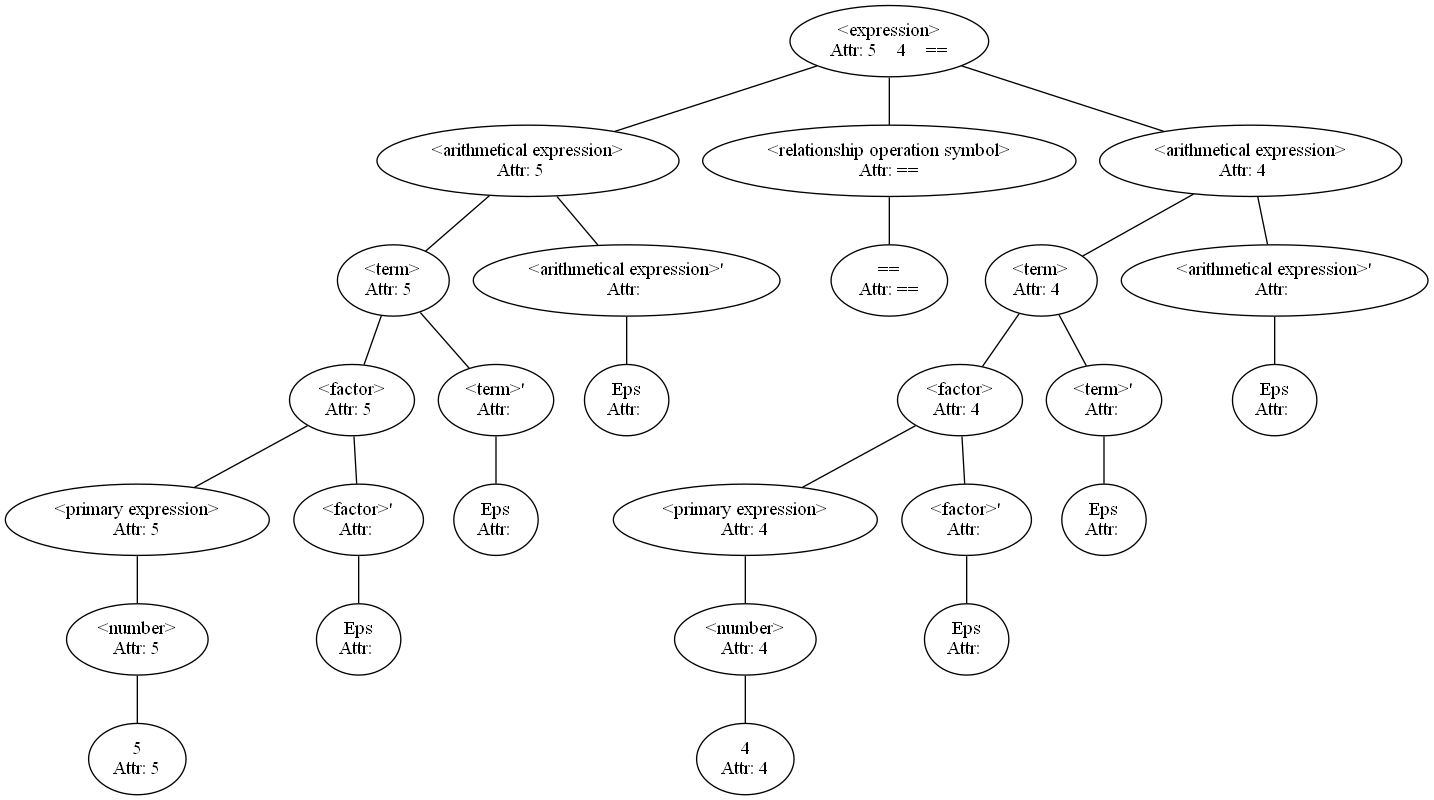
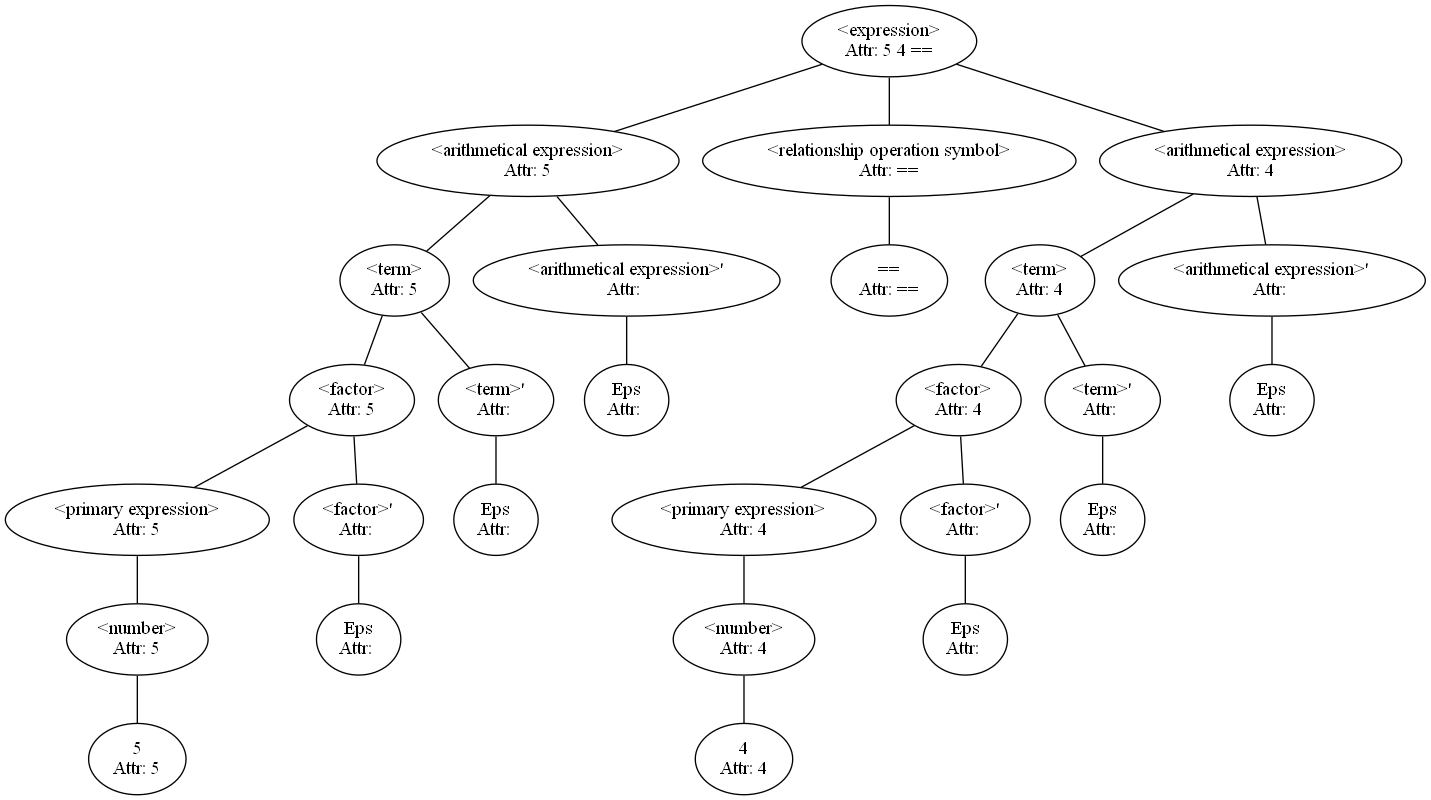
[lab4] Added console output.

diff --git a/lab4/src/Startup/Program.cs b/lab4/src/Startup/Program.cs
@@ -12,21 +12,23 @@ class Program
 
         var exampleFile = $"examples/{exampleName}.txt";
 
-        Console.WriteLine($"Reading text from file '{exampleFile}'...");
+        Console.WriteLine($"Reading expression from file '{exampleFile}'...");
 
         var exampleText = File.ReadAllText(exampleFile);
 
-        Console.WriteLine("Example text:");
+        Console.WriteLine("Example expression:");
         Console.WriteLine(exampleText);
 
         Console.WriteLine();
-        Console.WriteLine("Parsing text...");
+        Console.WriteLine("Parsing expression...");
 
         ILexer lexer = new Lexer(exampleText);
         IGrammarParser parser = new GrammarParser.GrammarParser();
 
         var tree = parser.Parse(lexer);
 
+        Console.WriteLine($"Expression in postfix notation: {tree.RootNode.Attribute}");
+        
         Console.WriteLine("Saving results to file...");
 
         var resultFile = $"out/{exampleName}";

diff --git a/lab4/src/DerivationTree/TreeNode.cs b/lab4/src/DerivationTree/TreeNode.cs
@@ -11,7 +11,7 @@ public class TreeNode
         TreeNode[]? childNodes = null)
     {
         Text = text;
-        Attribute = attribute;
+        Attribute = attribute.Trim();
         ChildNodes = childNodes ?? Array.Empty<TreeNode>();
     }
 }
